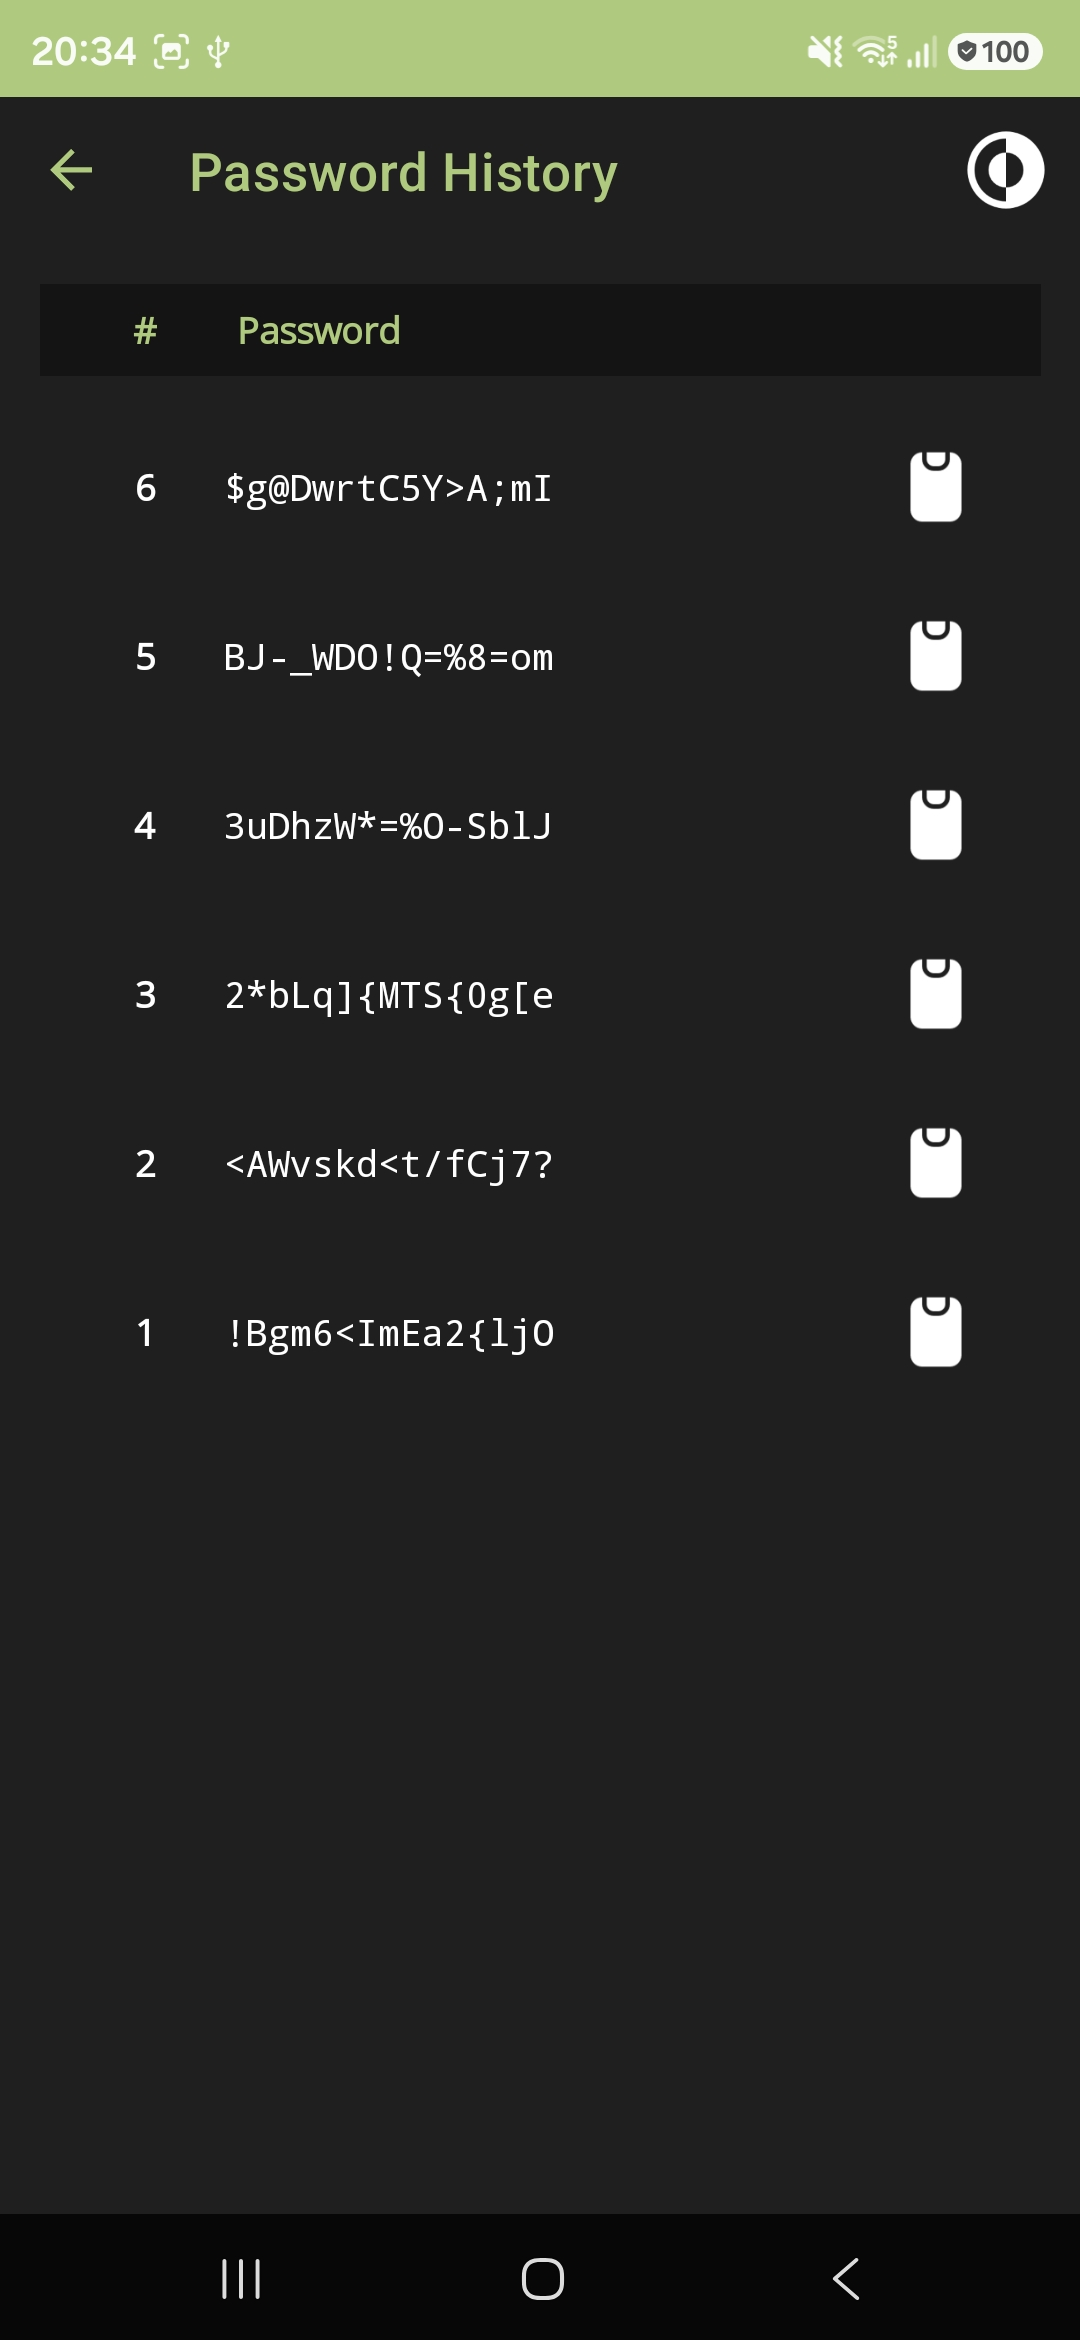
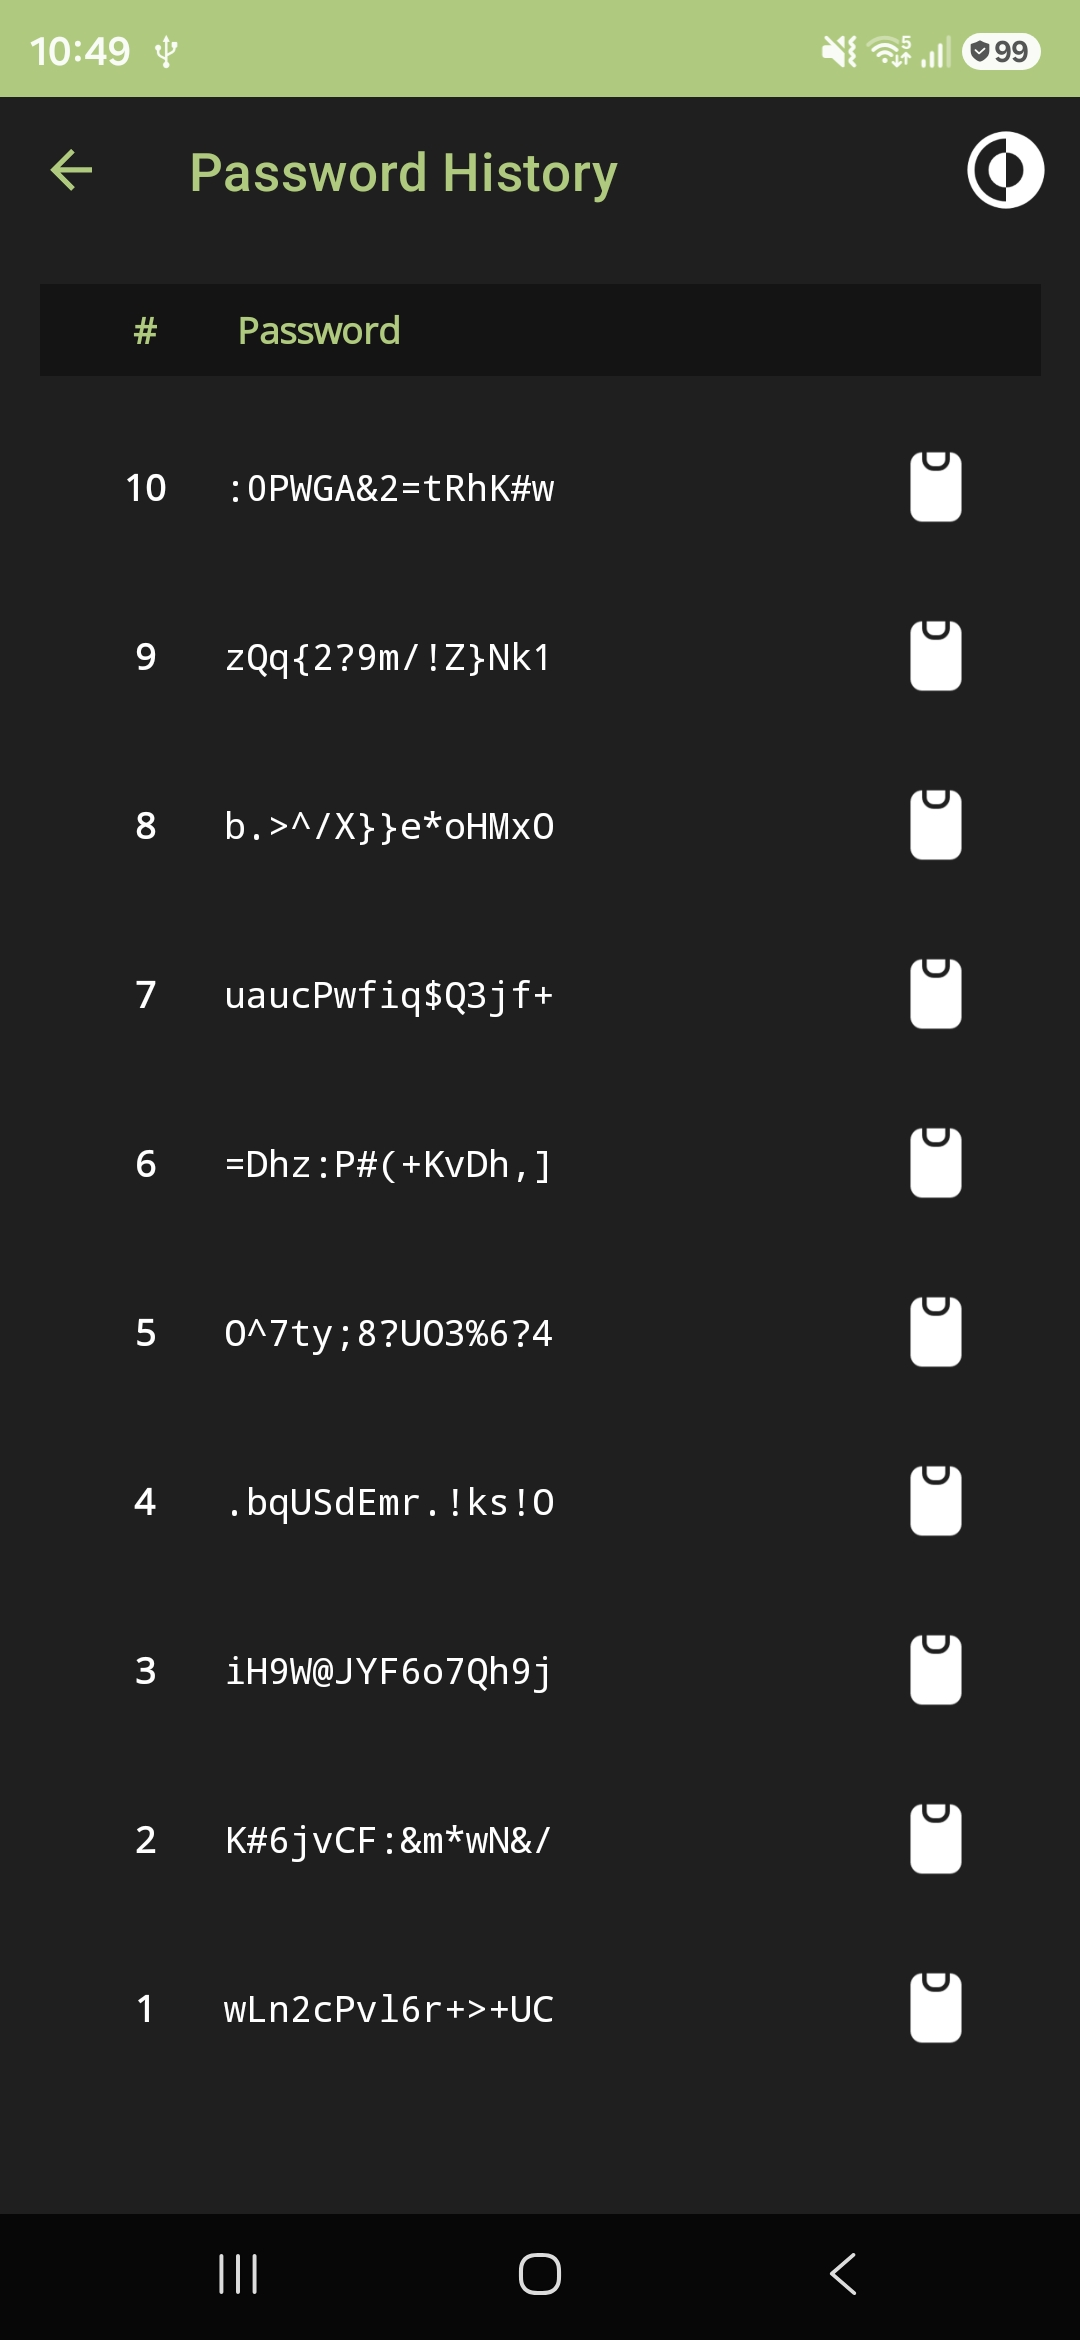
docs: update README documentation, refresh screenshots, and streamline shell layout
- Replaced old user interface screenshots in the assets folder with updated design views.
- Updated README.md to document .NET 10.0 migration, xUnit test integration, and the new IPasswordValidationService.
- Added explicit HTML spacing margins between screenshot images in README to prevent vertical layout bleeding on markdown platforms.
- Removed the legacy navigation flyout/hamburger drawer globally by switching AppShell to a clean ShellContent layout with Disabled FlyoutBehavior.
- Integrated the application identity brand asset logo directly into the MainPage header title view.

diff --git a/PassCraft.UI/Views/MainPage.xaml b/PassCraft.UI/Views/MainPage.xaml
@@ -3,8 +3,21 @@
                 xmlns:x="http://schemas.microsoft.com/winfx/2009/xaml"
                 xmlns:views="clr-namespace:PassCraft.UI.Views"
                 xmlns:constants="clr-namespace:PassCraft.Core.Constants;assembly=PassCraft.Core"
-                x:Class="PassCraft.UI.Views.MainPage"
-                Title="PassCraft">
+                x:Class="PassCraft.UI.Views.MainPage">
+
+    <Shell.TitleView>
+        <HorizontalStackLayout VerticalOptions="Center" Spacing="8">
+            <Image Source="passcraft.svg" 
+                   WidthRequest="28" 
+                   HeightRequest="28" 
+                   VerticalOptions="Center" />
+            <Label Text="PassCraft" 
+                   FontSize="18" 
+                   FontAttributes="Bold" 
+                   TextColor="{AppThemeBinding Light={StaticResource Black}, Dark={StaticResource White}}"
+                   VerticalOptions="Center" />
+        </HorizontalStackLayout>
+    </Shell.TitleView>
 
     <views:BasePage.ToolbarItems>
         <ToolbarItem x:Name="ThemeToggleBtn"

diff --git a/PassCraft.UI/AppShell.xaml b/PassCraft.UI/AppShell.xaml
@@ -2,13 +2,12 @@
 <Shell xmlns="http://schemas.microsoft.com/dotnet/2021/maui"
        xmlns:x="http://schemas.microsoft.com/winfx/2009/xaml"
        xmlns:views="clr-namespace:PassCraft.UI.Views"
-       x:Class="PassCraft.UI.AppShell">
+       x:Class="PassCraft.UI.AppShell"
+       FlyoutBehavior="Disabled">
 
-    <FlyoutItem Title="Generator" Icon="passcraft.svg">
-        <ShellContent 
-            Title="Generator" 
-            ContentTemplate="{DataTemplate views:MainPage}" 
-            Route="MainPage" />
-    </FlyoutItem>
+    <ShellContent 
+        Title="PassCraft" 
+        ContentTemplate="{DataTemplate views:MainPage}" 
+        Route="MainPage" />
 
 </Shell>

diff --git a/README.md b/README.md
@@ -5,29 +5,34 @@ PassCraft is a modern, lightweight, and secure password generator application bu
 ## Key Features
 
 - **Customizable Generation**: Configure length, character sets (Uppercase, Lowercase, Numbers, Symbols).
+- **Advanced Domain Validation**: Real-time evaluation prevents empty character pools and dynamically toggles controls.
+- **Smart Adaptive UI**: Interface buttons (like Reset Symbols and Exclude Ambiguous) contextually show or hide themselves when text sets match target references, stripping out duplicates and ignoring sorting orders.
 - **Advanced Filtering**: Exclude specific characters to ensure compatibility or readability.
 - **Smart Ambiguity Tool**: One-tap quick-fill to exclude visually similar characters (like `i`, `l`, `1`, `O`, `0`).
 - **Secure History**: Automatically track and review previously generated passwords.
-- **Modern UI**: Built with .NET MAUI, supporting both Light and Dark modes.
+- **Modern UI**: Built with .NET MAUI, supporting both Light and Dark modes with an integrated brand asset header that completely replaces the flyout hamburger menu layout.
 
 ## Screenshots
 
-![Main Screen](assets/main_screen.jpg)
-![History Screen](assets/history_screen.jpg)
+<img src="assets/main_screen.jpg" alt="Main Screen" width="360" />
+
+<br/><br/> <img src="assets/history_screen.jpg" alt="History Screen" width="360" />
 
 ## Architecture
 
-PassCraft follows a clean, decoupled architecture:
-- **UI Layer**: .NET MAUI views for a cross-platform responsive interface.
+PassCraft follows a clean, decoupled, and highly testable architecture:
+- **UI Layer**: .NET MAUI views using code-behind events mapped directly to underlying decoupled engines.
+- **Validation Domain Engine**: A dedicated `IPasswordValidationService` handling pool viability calculations and set-equivalence checks for UI states.
 - **Core Engine**: A dedicated `IPasswordGenerationService` for high-entropy random sequence generation.
-- **History Service**: Persistent storage for tracking generated passwords.
+- **History Service**: Persistent storage orchestrator tracking and formatting generated password items.
 
 ## Tech Stack
 
-- **Framework**: .NET MAUI
+- **Framework**: .NET 10.0 / .NET MAUI
 - **Language**: C#
+- **Testing Ecosystem**: xUnit / Coverlet
 - **Toolkit**: CommunityToolkit.Maui
-- **Design**: SVG-based iconography for consistent theme support
+- **Design**: Fixed track grid sizing with SVG-based iconography for consistent light/dark theme support
 
 ## Contributing
 
